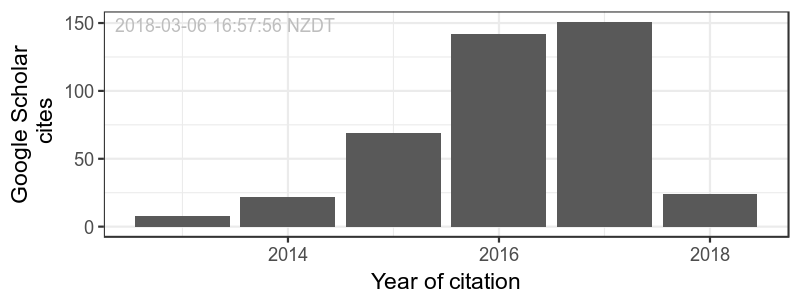
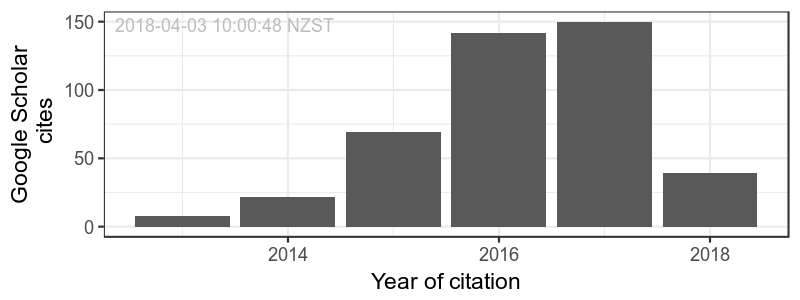
updated cv, publications list

diff --git a/index.md b/index.md
@@ -119,14 +119,16 @@ A course designed to walk Research Supervisors through the frameworks and pragma
 
 ## Publication Metrics
 
-* Journal articles: __29__	
+* Journal articles: __30__	
 * H-index: __11__
-* Citations: __421__
+* Citations: __435__
 
 ## Publications
 
 <!-- ### Journals -->
 `2018`
+Aquino EM, **Benton MC**, Haupt LM, Sutherland HG, Griffiths LR, and Lea RA. (2018) Current understanding of DNA methylation and age-related disease. *OBM Genetics* (accepted, awaitinng publication)
+
 Bradshaw G, Lualhati RL, Albury CL, Maksemous N, Roos-Araujo D, Smith RA, **Benton MC**, Eccles DA, Lea RA, Sutherland HG, Haupt LM and Griffiths LR. (2018) Exome sequencing diagnoses X-linked moesin-associated immunodeficiency in a primary immunodeficiency case. *Frontiers in Immunology* 9
 
 Dunn P, Albury CL, Maksemous N, **Benton MC**, Sutherland HG, Smith RA, Haupt LM, and Griffiths LR. (2018) Next Generation Sequencing Methods for Diagnosis of Epilepsy Syndromes. *Frontiers in Genetics* (accepted 16th Janurary)
@@ -305,4 +307,4 @@ Available on request.
 
 <!-- ### Footer
 
-Last updated: August 2017 -->
+Last updated: 3rd April 2018 -->
